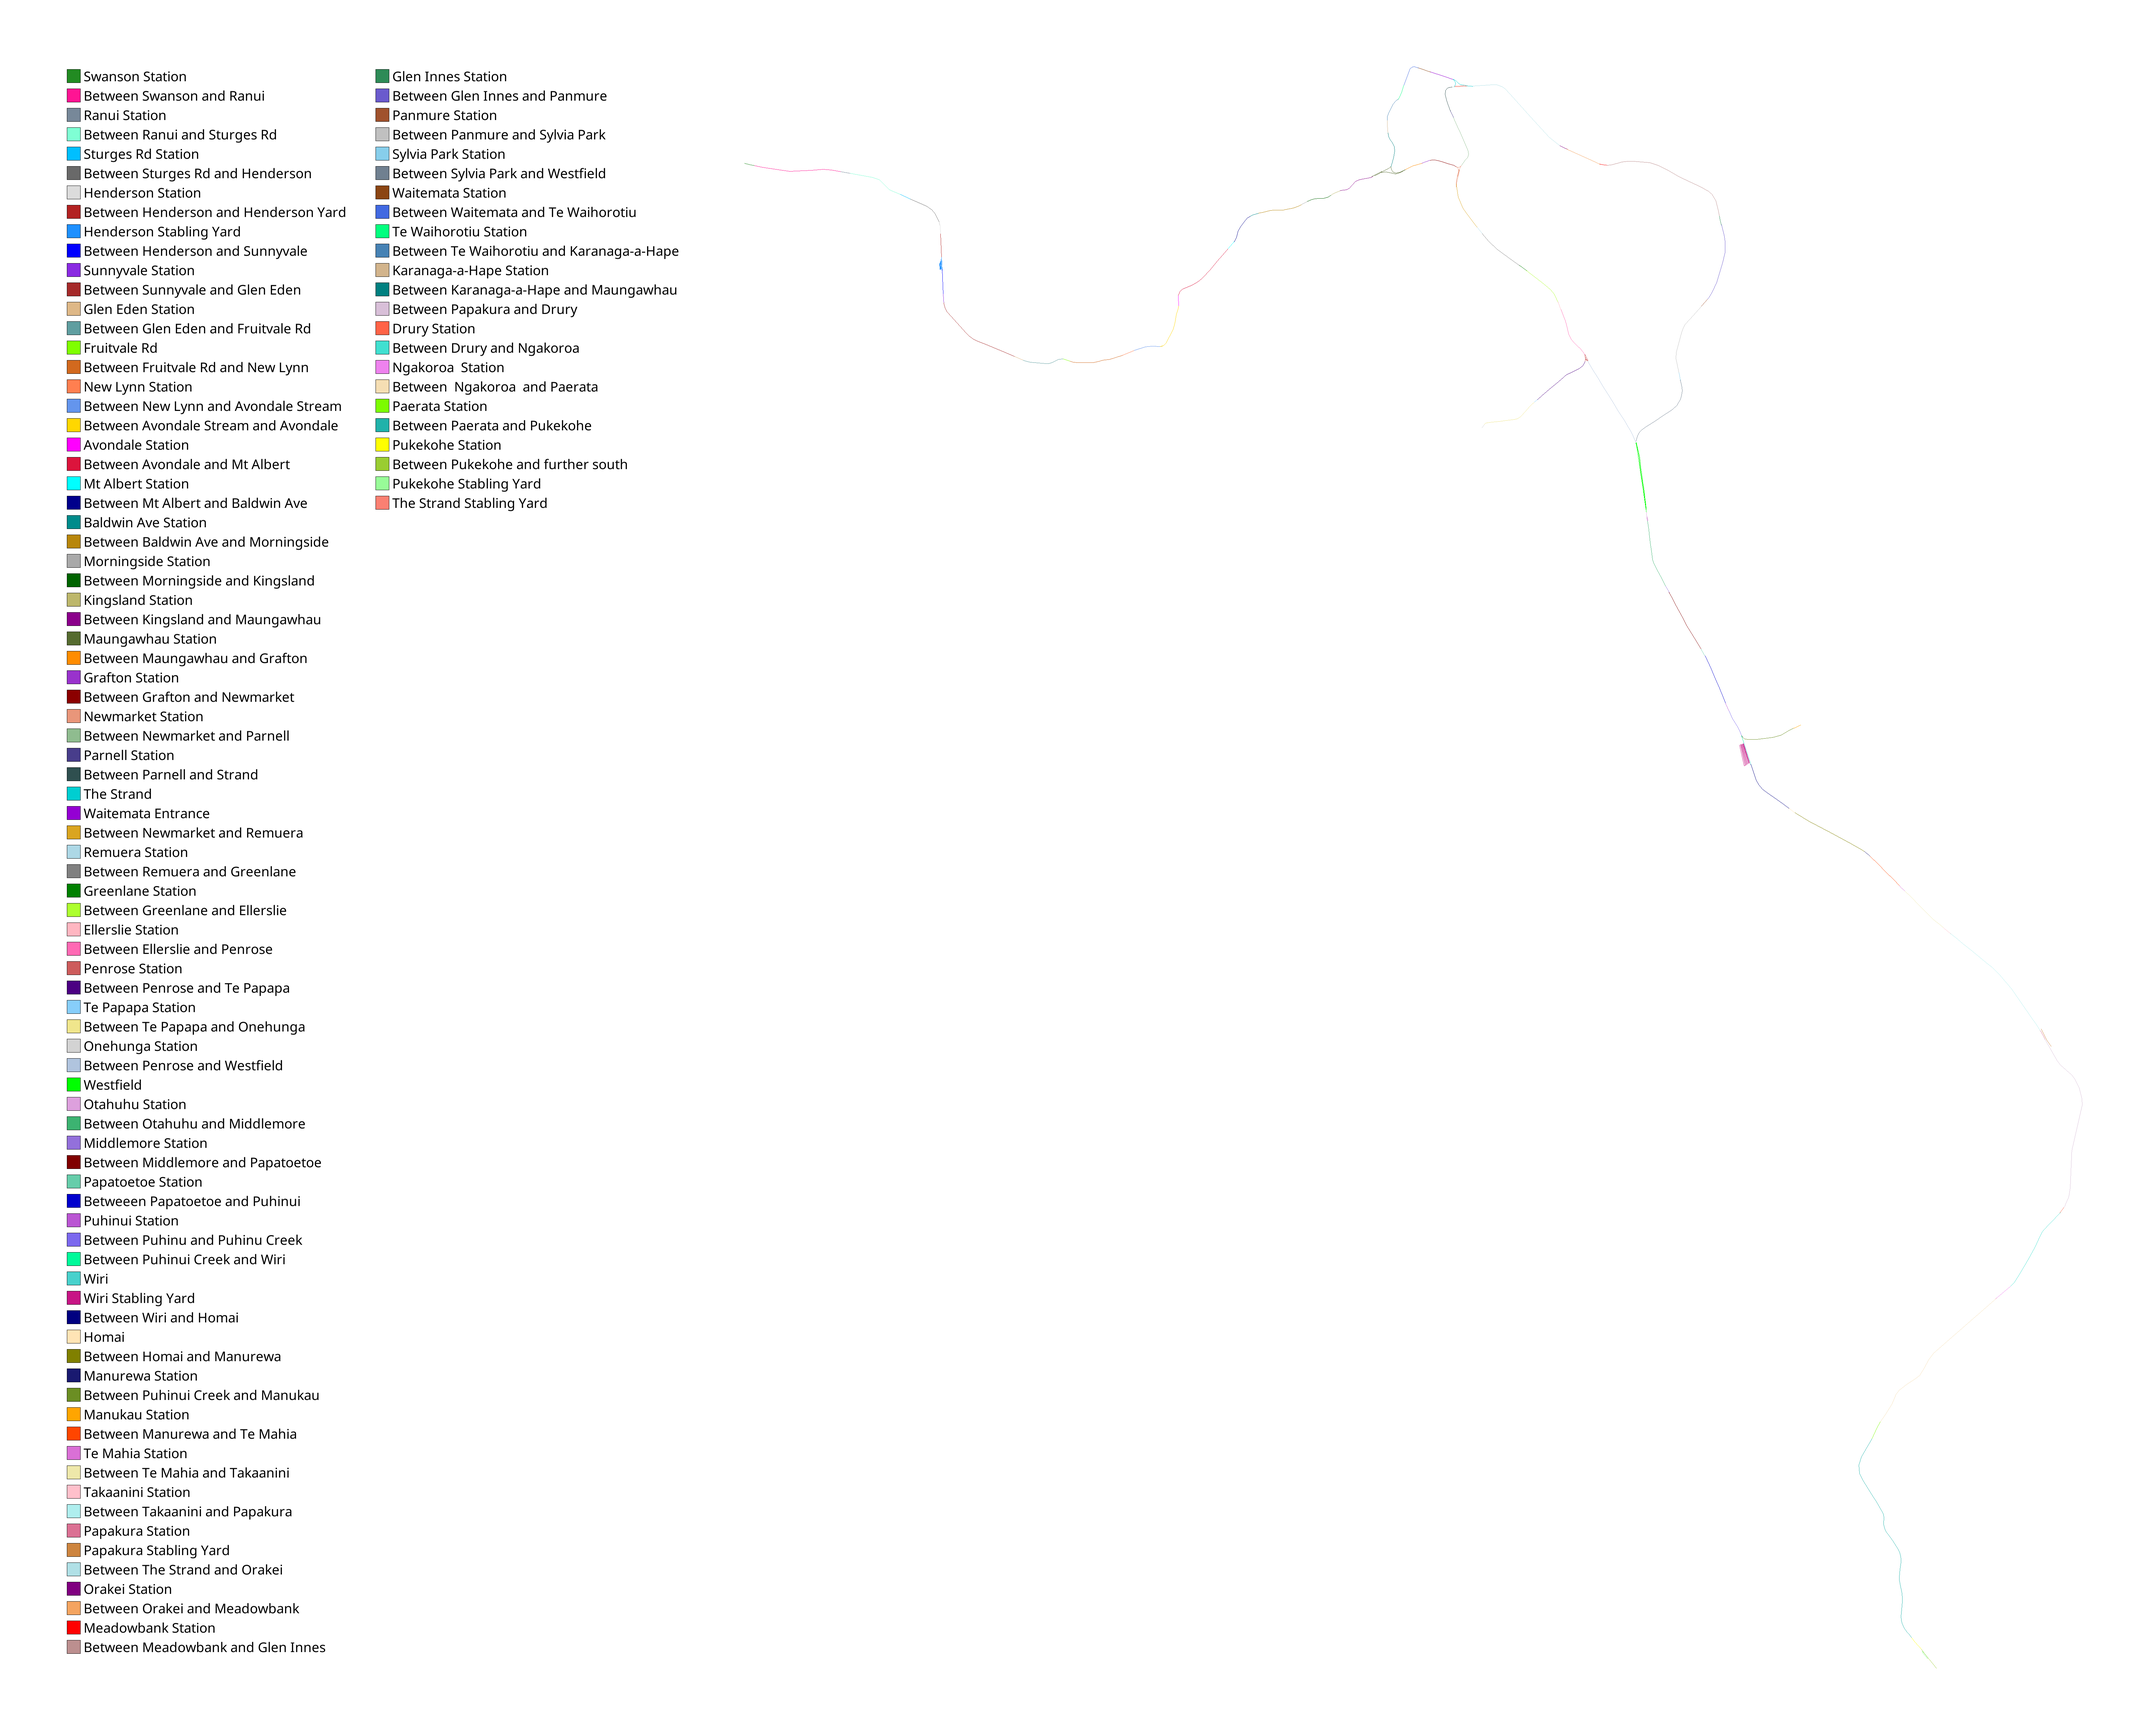
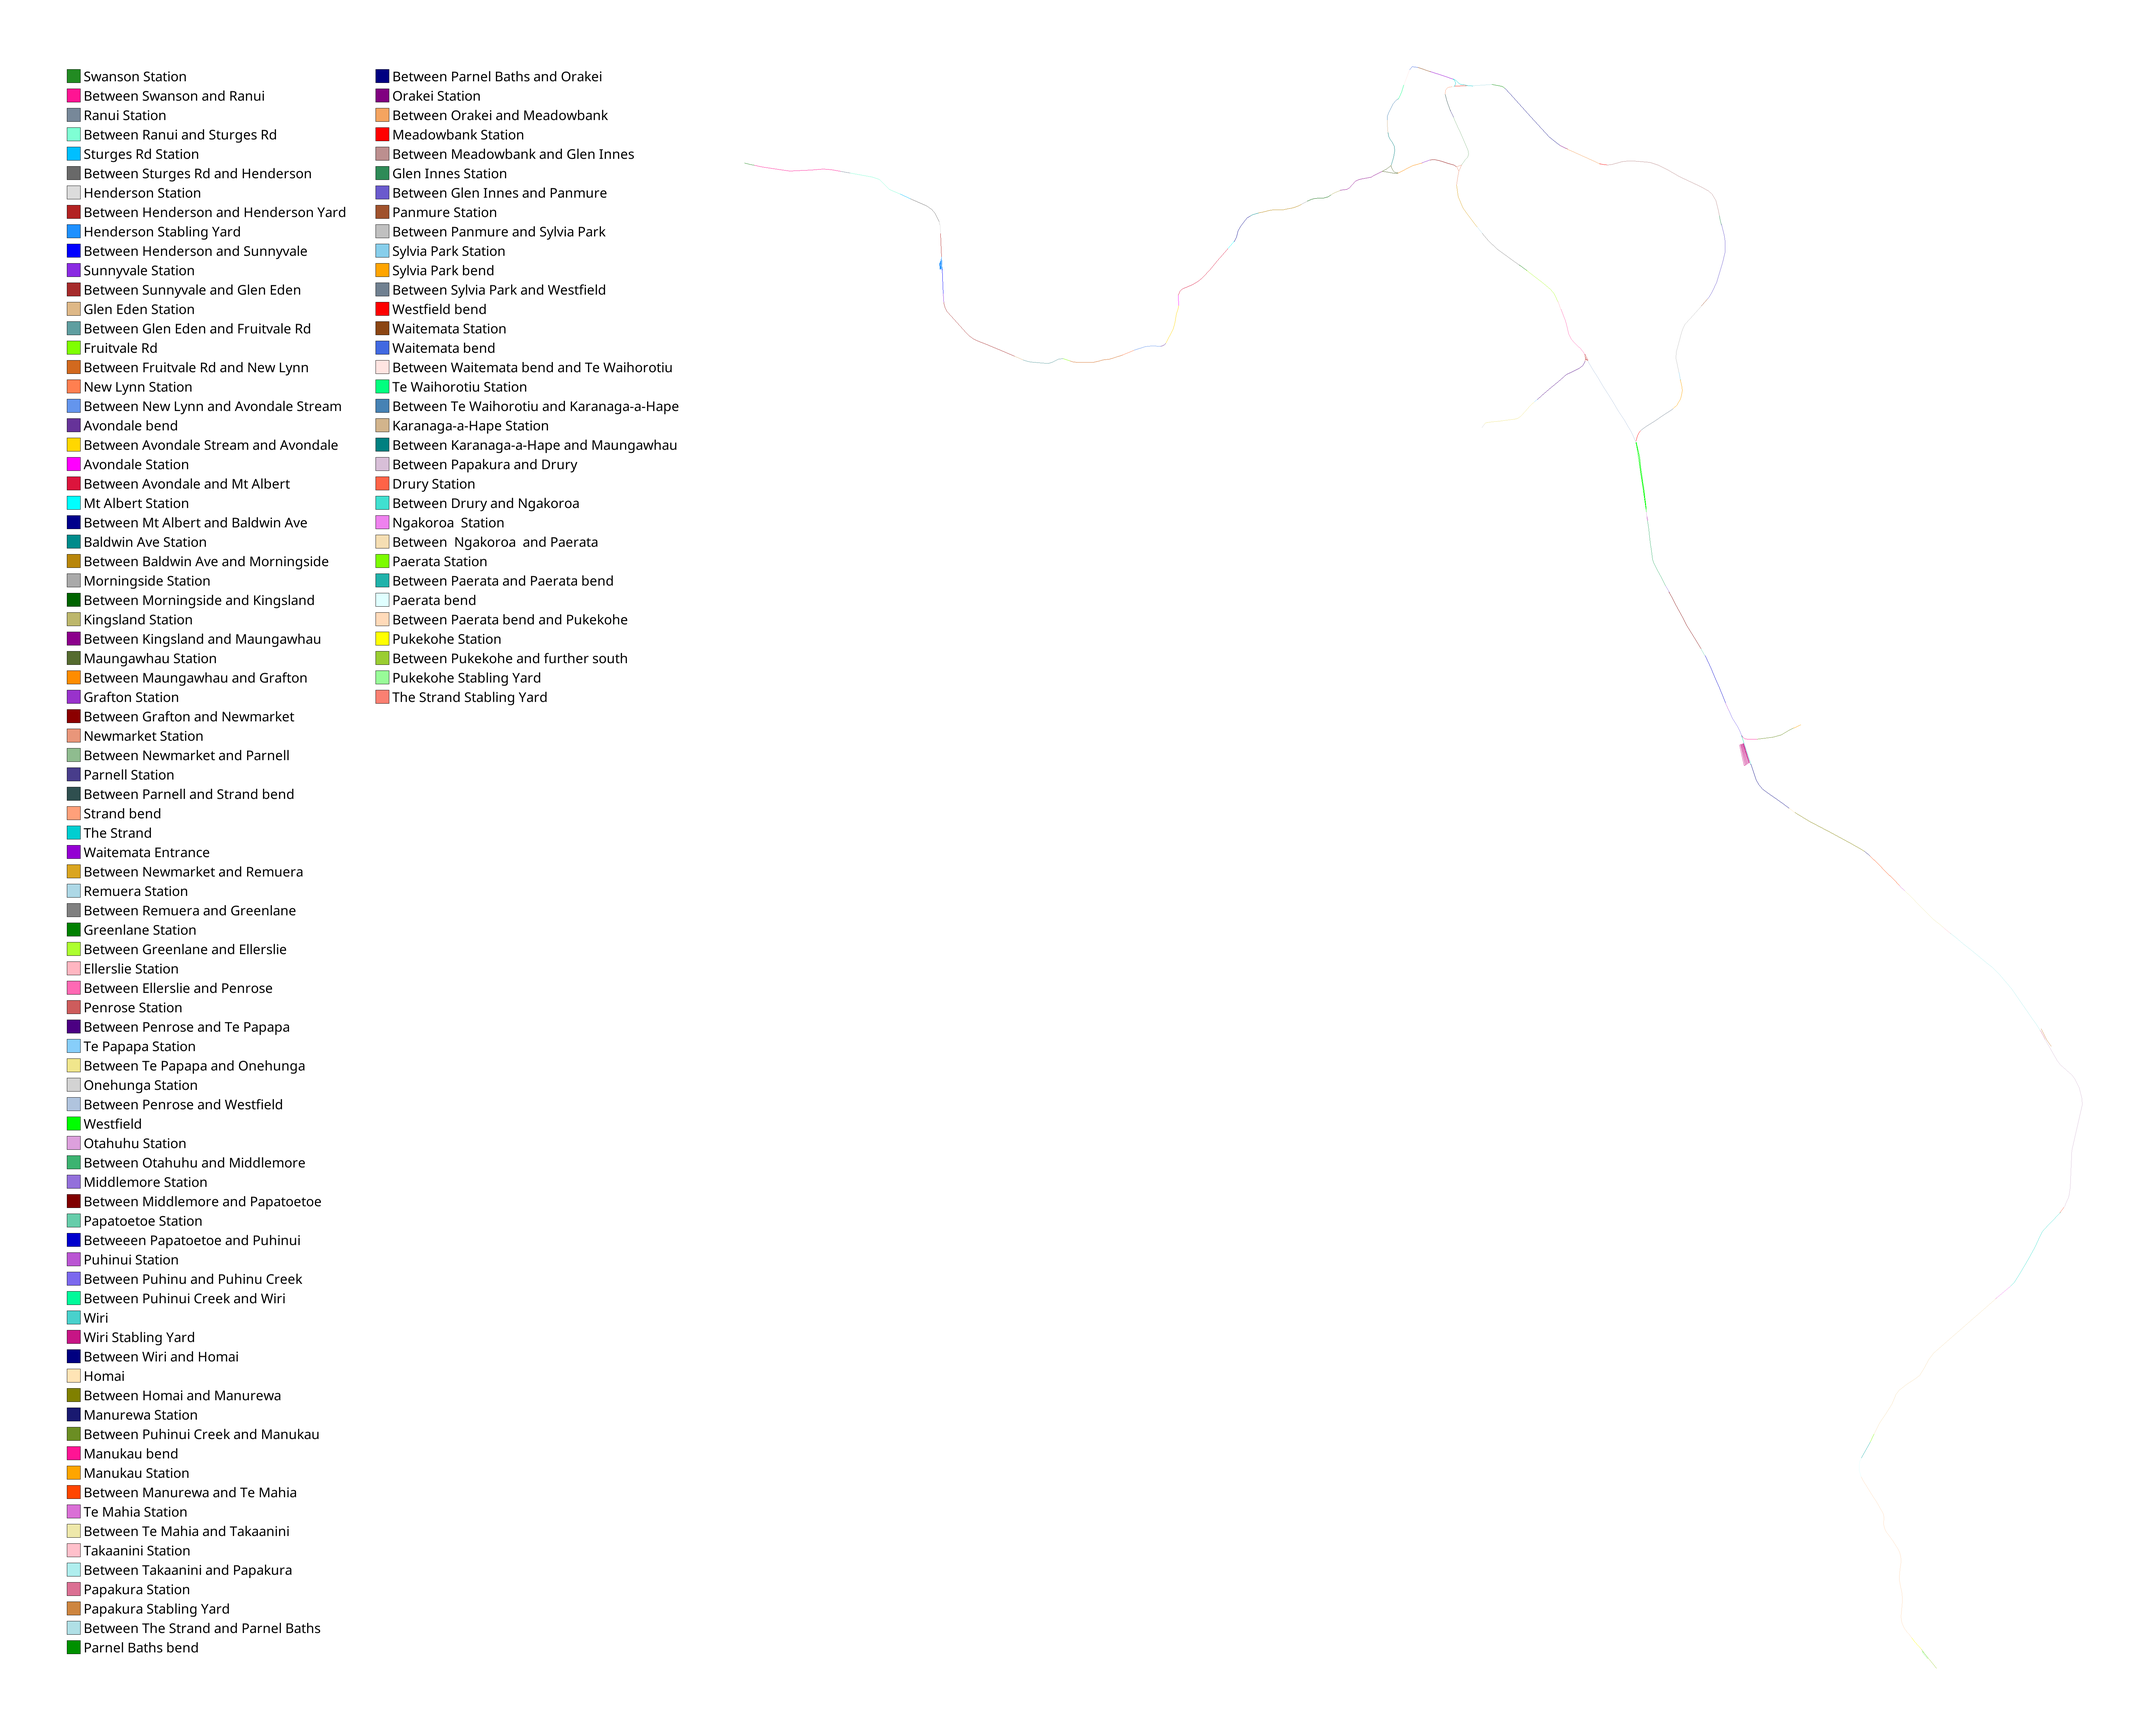
Track tidy up Made all corners either part of a station or created "X" sections for the bend because bends don't deal with bearings at all well so best to ignore them for train in front type work Also misc other things around this change

Changed region(s): [[0.0311, 0.0312, 0.2801, 0.968]]

diff --git a/find_my_train.py b/find_my_train.py
@@ -110,7 +110,7 @@ specialTrainsFilename = 'Special Trains.csv'
 stationsFilename = 'stations.csv'  # CSV file containing station details for import
 mapWidthPoints = 4000 
 imgMarginPercent = 5
-lineWidthPixels = 1  # Width of track lines in pixels
+lineWidthPixels = 1  # Width of track lines in pixels   <<<<<<<<<<<<<<<<<<<<<<<<<<<<<<<<<<<<<<<<<<<<<<<<<<<<<<<<<<<<<<<<<<<<<<<<<<<<<<<<<<<<<<<<<<<<<<<<<
 legendFontSize = 40  # Pixels
 legendRowSpace = 5   # Pixels
 legendFontFilename = 'NotoSans-Regular.ttf'
@@ -137,7 +137,7 @@ maxTrainSetHistoryEntries = 10  # Maximum number of historical train set entries
 minSeparationForFrontTrainsMeters = 10  # When determining the train in front ignore results where trains are separated by this many meters or less.
 maxPrevFrontTrainRecordsToKeep = 75 # The maximum number of previous front train numbers
 parkedTrainInactivityMin =10 # We need to do cleanups of parked trains, but it can be difficult to work out if a train is parked. If a train has been stationary for this number of minutes then it's parked 
-sectionTypesToIgnoreForTrainSets = ['I', 'Y', 'E']  # Section types to ignore when identifying train sets: 'I' (Interchange), 'Y' (Stabling Yard), 'E' (End of Line)    
+sectionTypesToIgnoreForTrainSets = ['I', 'Y', 'E','X']  # Section types to ignore when identifying train sets: 'I' (Interchange), 'Y' (Stabling Yard), 'E' (End of Line)    
 
 atVehiclePosURL = 'https://api.at.govt.nz/realtime/legacy/vehiclelocations'
 atAllStopsURL = 'https://api.at.govt.nz/gtfs/v3/stops'
@@ -2904,10 +2904,11 @@ try:
                 # Y : Yard
                 # I : Interchange
                 # E : End of line
+                # X : Ignore for calculating if train is heading to britomart. Typically this would be a bend
                 #
-                if currRow['type'] not in ['N', 'S', 'Y','I','E']:
+                if currRow['type'] not in ['N', 'S', 'Y','I','E','X']:
                     eventMsg = 'The row with ID \'' + currRowIDStr + '\' has a value of \'' + currRow['type'] + '\', for Section Type.' + '\n' + \
-                               'This should be either \'N\' for Normal, \'S\' for Station, \'I\' for Interchange, or \'Y\' for Yard.'
+                               'This should be either \'N\' for Normal, \'S\' for Station, \'I\' for Interchange, \'Y\' for Yard, \'E\' for End of line, or \'X\' for Ignore.'
                     eventLogger('error', eventMsg, 'Error with input details for \'' + trackDetailsFilename + '\'.', str(inspect.currentframe().f_lineno))
 
                 trackDetails['track_sections'].update({currRowID:currRow})
